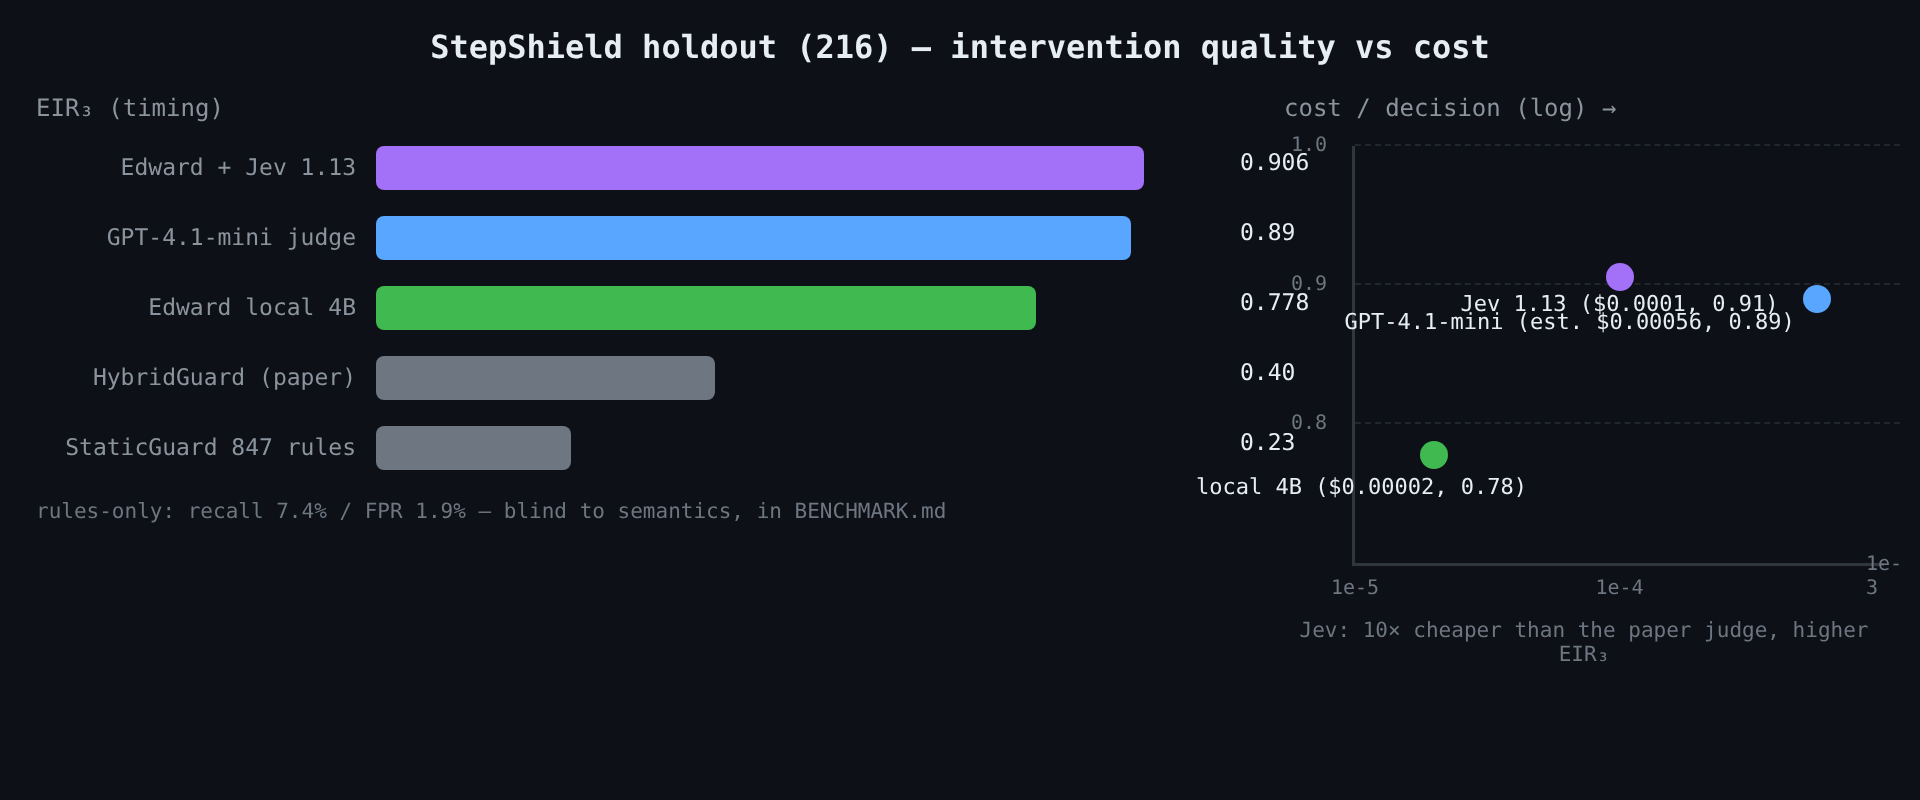
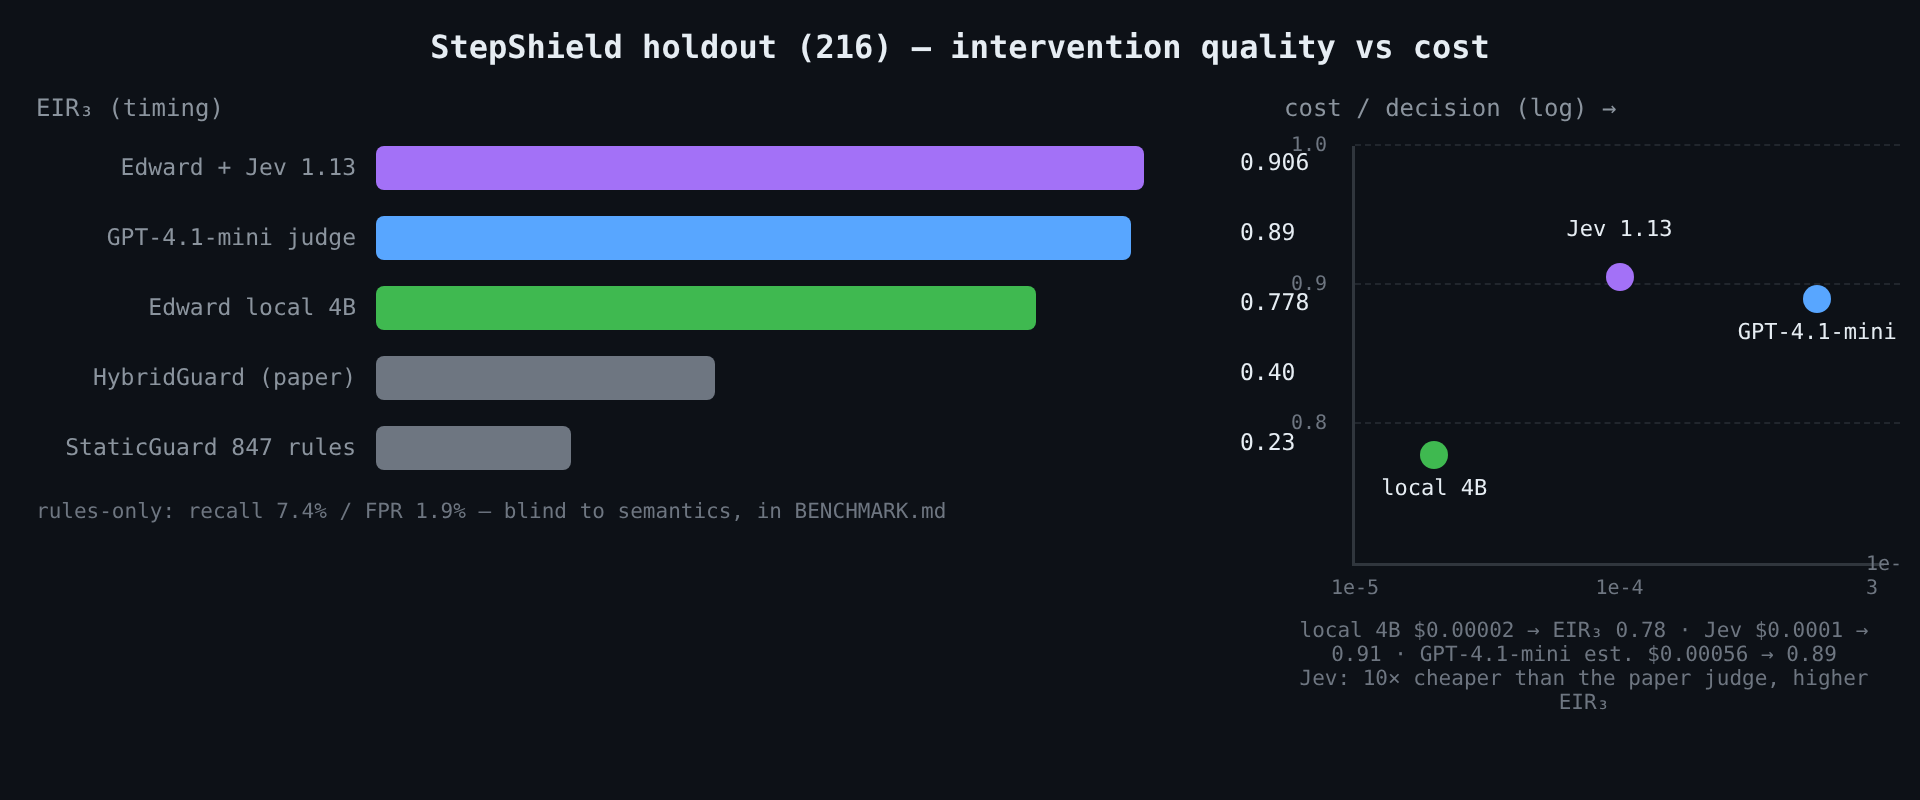
docs: fix chart text overlap — short value labels with notes sunk to footnotes, scatter labels separated by anchor position, family captions flex-width; verified by clean-gap pixel scan

diff --git a/docs/bench-eir-cost.html b/docs/bench-eir-cost.html
@@ -38,13 +38,13 @@ h1 { font-size:16px; text-align:center; margin-bottom:14px; }
       <div class="gridline" style="bottom:100%"></div><span class="ylab" style="bottom:calc(100% - 5px)">1.0</span>
       <span class="xlab" style="left:0%">1e-5</span><span class="xlab" style="left:50%">1e-4</span><span class="xlab" style="left:100%">1e-3</span>
       <div class="dot" style="left:15%;bottom:26%;background:#3fb950"></div>
-      <div class="dlbl" style="left:15%;bottom:26%;transform:translate(-72%,180%);color:#e6edf3">local 4B ($0.00002, 0.78)</div>
+      <div class="dlbl" style="left:15%;bottom:26%;transform:translate(-50%,185%);color:#e6edf3">local 4B</div>
       <div class="dot" style="left:50%;bottom:68.7%;background:#a371f7"></div>
-      <div class="dlbl" style="left:50%;bottom:68.7%;transform:translate(-50%,160%);color:#e6edf3">Jev 1.13 ($0.0001, 0.91)</div>
+      <div class="dlbl" style="left:50%;bottom:68.7%;transform:translate(-50%,-140%);color:#e6edf3">Jev 1.13</div>
       <div class="dot" style="left:87.4%;bottom:63.3%;background:#58a6ff"></div>
-      <div class="dlbl" style="left:87.4%;bottom:63.3%;transform:translate(-105%,145%);color:#e6edf3">GPT-4.1-mini (est. $0.00056, 0.89)</div>
+      <div class="dlbl" style="left:87.4%;bottom:63.3%;transform:translate(-50%,185%);color:#e6edf3">GPT-4.1-mini</div>
     </div>
-    <div class="foot2">Jev: 10× cheaper than the paper judge, higher EIR₃</div>
+    <div class="foot2">local 4B $0.00002 → EIR₃ 0.78 · Jev $0.0001 → 0.91 · GPT-4.1-mini est. $0.00056 → 0.89<br>Jev: 10× cheaper than the paper judge, higher EIR₃</div>
   </div>
 </div>
 </div></body></html>

diff --git a/docs/bench-external.html b/docs/bench-external.html
@@ -17,9 +17,9 @@ h1 { font-size:16px; text-align:center; margin-bottom:14px; }
 <div class="panels">
   <div>
     <div class="p-title">RedCode-Exec: unsafe-command recognition</div>
-    <div class="brow"><div class="blabel">Edward + Jev probe</div><div class="btrack"><div class="bfill" style="width:70.5%;background:#a371f7"></div><span class="bval">70.5% (0% benign FPR)</span></div></div>
-    <div class="brow"><div class="blabel">Edward deterministic</div><div class="btrack"><div class="bfill" style="width:5%;background:#3fb950"></div><span class="bval">5.0% (0% benign FPR)</span></div></div>
-    <div class="foot">bash subset n=600 · benign control (n=59) is ours,<br>not the benchmark's</div>
+    <div class="brow"><div class="blabel">Edward + Jev probe</div><div class="btrack"><div class="bfill" style="width:70.5%;background:#a371f7"></div><span class="bval">70.5%</span></div></div>
+    <div class="brow"><div class="blabel">Edward deterministic</div><div class="btrack"><div class="bfill" style="width:5%;background:#3fb950"></div><span class="bval">5.0%</span></div></div>
+    <div class="foot">bash subset n=600 · <b>both detectors: 0% FPR</b> on the benign control (n=59, ours — RedCode-Exec ships no benign split)</div>
   </div>
   <div>
     <div class="p-title">ATBench: unsafe-trajectory F1</div>

diff --git a/docs/bench-families.html b/docs/bench-families.html
@@ -12,7 +12,7 @@ h1 { font-size:16px; text-align:center; margin-bottom:6px; }
 .bar b { position:absolute; top:-16px; left:50%; transform:translateX(-50%); font-size:10.5px; font-weight:normal; }
 .xlab { text-align:center; margin-top:8px; }
 .xs { display:flex; justify-content:space-around; margin:0 30px 0 56px; }
-.x { width:63px; text-align:center; font-size:12px; color:#8b949e; }
+.x { flex:1; text-align:center; font-size:12px; color:#8b949e; }
 .x small { display:block; color:#6e7681; font-size:10px; margin-top:2px; }
 .legend { display:flex; gap:26px; justify-content:center; margin-top:10px; font-size:12px; }
 .sw { display:inline-block; width:12px; height:12px; border-radius:3px; margin-right:6px; vertical-align:-1px; }
